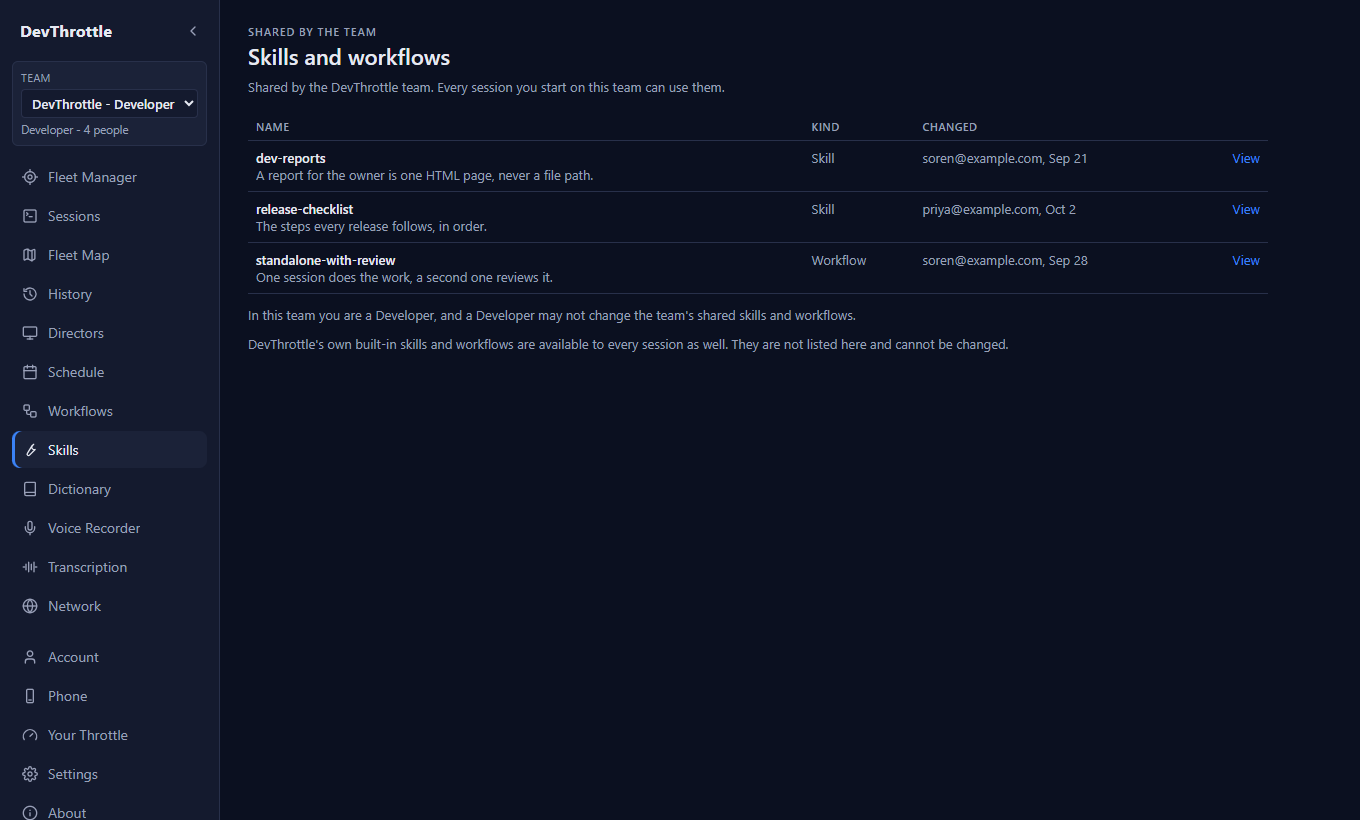
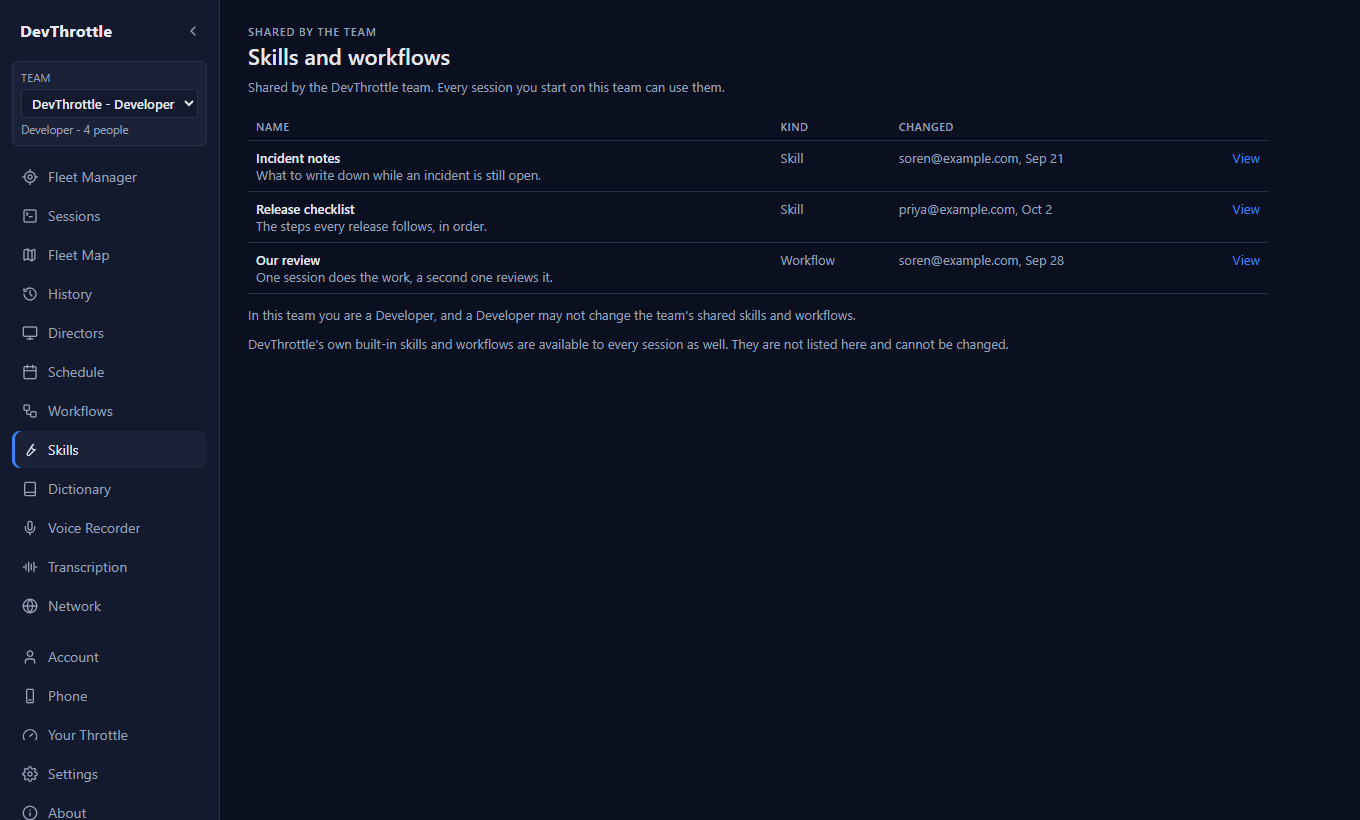
Teams: S5 proof - stand-in rows the real library can produce, screens recaptured, nine revert checks, and the answered review of #3536 (devthrottle_internal#2304)

diff --git a/docs/proof/teams-2304/review-2304-page.md b/docs/proof/teams-2304/review-2304-page.md
@@ -1,0 +1,196 @@
+# Review: the S5 page, Skills and workflows (thefrederiksen/devthrottle pull request #3536)
+
+Written by a separate review session, 4 October 2026. Head reviewed: ab2fc024d, against origin/main at 0f8ae2706
+(merge base 24cf04bfa). The Gateway contract was read from origin/teams/2304-shared-skills at c3b6de244
+(pull request #3532, not merged).
+
+## Scope
+
+**Read, in full:**
+
+- The whole diff `git diff origin/main...HEAD`: `apps/cockpit/src/teams/TeamLibraryView.tsx`, its test file,
+  `packages/client-core/src/teams/teamLibraryClient.ts`, its test file, the `routes.tsx` change, the three capture
+  scripts under `docs/proof/teams-2304/s5-capture/`, and `docs/proof/teams-2304/s5-page.md`.
+- On main: `packages/client-core/src/teams/CurrentTeam.tsx`, the failure parsing in
+  `packages/client-core/src/api/client.ts`, `apps/cockpit/src/components/ConfirmDialog.tsx`, `suggestSkillId`.
+- On the #3532 branch: `TeamLibraryEndpoints.cs`, `SkillEndpoints.cs`, `WorkflowEndpoints.cs`,
+  `ServerStampedAuthor.cs`, `TeamEndpointRules.cs`, `TeamEndpointGate.cs`, the request and answer contracts in
+  `SkillDtos.cs` and `WorkflowDtos.cs`, and the parts of `SkillStore.cs`, `WorkflowStore.cs`, `SkillValidation.cs`
+  and `WorkflowValidation.cs` that the page's routes reach (create draft, update draft, publish, clone, archive,
+  version detail, body and instructions reads, the publish-time rules), plus the refusal wording in `TeamAccess.cs`
+  and `TeamPermissions.cs`.
+- Issue #2304, the Developer's brief, and screen S5 of the mockup.
+
+**Ran, in this worktree, with no file edited:**
+
+- `npm ci` at the root.
+- `npx vitest run` in `packages/client-core`: 142 test files passed, 1,672 tests passed.
+- `npx vitest run` in `apps/cockpit`: 69 test files passed, 613 tests passed.
+- `git status` afterwards: clean.
+
+**Could not reach:**
+
+- No .NET suite was run (mandate). Everything said below about what the Gateway answers is from READING the
+  #3532 branch, not from a running Gateway. F1 and F2 in particular are read, not reproduced.
+- The page was not driven against a real Gateway: #3532 is not merged and no such Gateway exists to drive.
+- The four screenshots were not re-captured. I did not open the image files; I judged the stand-in from its source.
+- I did not perform the three revert checks the proof file reports; I did not edit any file. Where I say a test
+  cannot fail, it is from reading the test.
+- Role table in #2098 was taken from the #3532 branch's `TeamPermissions.cs` rows (use: Owner, Manager, Developer;
+  change: Owner, Manager), which agree with issue #2304's text. I did not open #2098 itself.
+
+**What I checked and found sound (no finding):**
+
+- Rule 7. The Add buttons follow `library.canChange`, each row's Change and Remove follow that row's `canChange`,
+  the Developer's sentence is `changeRefusal` verbatim, and the Collaborator's note is the Gateway's own 403
+  sentence. Nothing in the page or the client compares a role. `team.role` is never read.
+- The author. No request body carries `authoredBy` and no query string carries `by=`. The page has no console
+  call. The only email on the page is `changedBy`, which the Gateway chose to send.
+- The current team. `TeamOrOwn` reads `resolving` first, and shows loading or the switcher's error, never the own
+  page. With no remembered team, Teams dark, or no team picked, `resolving` is false and `current` is null, so the
+  own page renders exactly as before and no team route is called.
+- The team id. Every request the page makes goes through `teamPath(teamId, ...)` with the id of the one team on
+  screen, encoded; `key={current.id}` remounts the page on a switch so no state carries across teams.
+- Shapes. The library answer, the 403 body (`error` plus `code: "team_action_refused"`), the skill create body,
+  the skill and workflow draft bodies (the extra `contentHash` on a skill file is ignored by the Gateway's reader;
+  `encoding` and `executable` survive the round trip), the clone query, the delete, the two markdown reads and the
+  workflow list's `isBuiltIn` all match what #3532's routes read and write.
+
+## Verdict
+
+**Changes needed before merge: one should-fix that strands an item (F1), two smaller should-fixes (F2, F3), and
+three notes.** No blocker on the points the mandate asked to be looked at hardest: rule 7, the author, the current
+team and the team id in every route are all correct.
+
+## Findings
+
+### F1 - should-fix - a Change whose publish fails leaves a draft behind, and the page can then never change that item again
+
+**Location:** `packages/client-core/src/teams/teamLibraryClient.ts` lines 155 and 178-179 (`changeTeamItem`);
+`apps/cockpit/src/teams/TeamLibraryView.tsx` line 247 (the Save button's disabled rule) and line 226. Same shape
+in `addTeamSkill`, lines 113-114.
+
+**The harm.** A change is two writes: `PUT .../draft`, then `POST .../publish`. If the first succeeds and the
+second fails, the Gateway now holds a DRAFT for that item. The page's next attempt reads the PUBLISHED version
+(`/versions/{item.version}`) and sends that version's hash as `If-Match`. But the Gateway's `UpdateDraft` compares
+`If-Match` against the draft when one exists (`SkillStore.cs` on the #3532 branch, `var baseline = draft ?? ...
+Published`; `WorkflowStore.cs` the same). The hashes differ, so the Gateway answers 409, "The skill changed since
+you read it (content hash mismatch). Pull the current content and reapply your edit." Reloading does not help: the
+library still reports the published version, so every later Change of that item from this page gets the same 409,
+for every Owner and Manager, permanently. Nothing on the page can publish or discard the draft, and today no other
+surface can reach a team's library at all (the command line talks to the personal routes; the team-bound key waits
+on #2311). The only move left is Remove, after which the same id cannot be added again (the archived id still
+exists, so create answers 409 "already exists").
+
+**The page makes this easy to hit, without any network fault.** In the Change dialog the Save button is disabled
+only while the text is still loading (`text === null`), not when it is empty. Clear the box and press "Save for
+the team": the draft write is accepted (the draft rules allow an empty body), and the publish is refused with "A
+skill cannot publish without a body" (`SkillValidation.ValidateForPublish`; for a workflow, "cannot publish without
+instructions"). The dialog stays open showing that sentence; the person types the words back and saves again, and
+gets the 409 above. The item is now stuck as described.
+
+**Add skill has the same two-step shape** (create draft, then publish). The dialog does require a non-blank body,
+so it takes a real failure between the two calls; when that happens the skill exists as an unpublished draft that
+the library does not list, and adding it again answers "A skill with id '...' already exists" for a name the page
+shows nowhere.
+
+**Why it must change.** A shared item that an Owner can no longer change, with a message telling them to "pull
+the current content" on a page that has no way to do so, is a dead end the person cannot get out of. At minimum:
+do not offer Save with empty words; and make the second attempt work when the leftover draft is the caller's own
+failed change (for example, write against the hash the draft write itself returned and retry only the publish, or
+read the latest version rather than the published one). No test covers a publish that fails after a draft write.
+
+**This is from reading the store on the #3532 branch; I did not run it.**
+
+Developer answer: Fixed in the page; #3532 does not change. (1) Save is never offered with empty words (`TeamLibraryView.tsx`, the Change dialog's disabled rule; test `TeamLibraryView_Change_EmptyWords_AreNeverOffered`). (2) A leftover draft is recovered: `changeTeamItem` now reads the item's version history first and, when a draft is there, writes against THAT draft's hash, replacing it; with no draft it still writes against the hash of the version the person read, so a change someone else published meanwhile is still refused (`ChangeTeamItem_ADraftLeftByAFailedPublish_IsReplaced_WrittenAgainstItsOwnHash`, and the existing published-hash test). Every write this page makes publishes straight after, so a draft that is still there is a change that did not finish. It works from a reload too, not only within the dialog. (3) Add has the same care: the dialog holds how far the add got (`AddProgress`), so a second attempt after a failed publish rewrites the unpublished skill the first attempt made and publishes it, never creating again; the id is then fixed in the dialog (`AddTeamSkill_ASecondAttemptAfterAFailedPublish_RewritesTheDraftAndPublishes_NeverCreatesAgain`, `TeamLibraryView_AddSkill_ASecondAttemptAfterThePublishFailed_FinishesTheSameSkill`). Revert checks G and L each turned their tests red. Not covered: a skill whose add failed AND whose dialog was then closed stays an unlisted draft until the Gateway can list or discard a team's drafts; that is a Gateway change, so I did not make it, and I name it here rather than claim it.
+
+### F2 - should-fix - "The team's name for it" sets only the id; the row shows the built-in's name, and nothing on the page can change it
+
+**Location:** `apps/cockpit/src/teams/TeamLibraryView.tsx` lines 349-353 (the field and its label), line 326;
+`packages/client-core/src/teams/teamLibraryClient.ts` lines 162 and 198-201.
+
+**The harm.** The Add workflow dialog asks for "The team's name for it" and sends what is typed only as `newId`.
+The Gateway's clone copies the source's name (`WorkflowStore.Clone` on the #3532 branch: `Name =
+sourceVersion.Name`). So a Manager who starts from "Standalone with review" and types "Our review" gets a row whose
+Name column reads "Standalone with review", not "Our review". The id they typed is shown nowhere in the table
+(the row renders `item.name` and `item.summary` only). Two copies of the same built-in are two rows with the same
+name and the same one line, told apart only by the date, and the Remove question reads "Remove 'Standalone with
+review' from the team?" for both. Change cannot repair it: `changeTeamItem` sends `name: v.name` back unchanged
+and the dialog has no name field.
+
+**Why it must change.** The field's label promises something the page does not do, and the result is rows a
+person cannot tell apart when the action on offer is Remove. Either send the typed name (clone, then a draft with
+the new name, then publish - which then needs F1's care), or label the field as the id and show the id in the row.
+The test `TeamLibraryView_AddWorkflow_StartsFromABuiltIn` passes because it checks only the call's arguments; no
+test looks at what the new row is called.
+
+Developer answer: Fixed: the name is now the name. The Add workflow dialog has a Name field with the id shown under it (as Add skill does). `addTeamWorkflowFrom` copies under the id, then, because the clone keeps the built-in's name, writes the typed name as a draft against the copy's hash and publishes; a second attempt after a failed rename finishes the same copy and never copies again (it uses F1's leftover-draft care). Tests: `AddTeamWorkflowFrom_CopiesUnderTheNewId_ThenGivesItTheTeamsName_WithNoAuthor`, `AddTeamWorkflowFrom_ASecondAttemptAfterAFailedRename_FinishesTheSameCopy_NeverCopiesAgain`, and the page test now checks the name sent. Revert check K turned two tests red.
+
+### F3 - should-fix - `/workflows/:id` still shows and changes the person's OWN library while a team is on screen
+
+**Location:** `apps/cockpit/src/routes.tsx` line 163 (`{ path: "/workflows/:id", element: <WorkflowDetail /> }`,
+unchanged by this pull request, beside the two routes it did wrap).
+
+**The harm.** The mandate asks whether anything still calls the personal routes while a team is chosen. One page
+does. `/workflows` and `/skills` are wrapped in `TeamOrOwn`; the single-workflow page is not. It calls the personal
+`/gateway/workflows` routes and offers Clone and the on/off switch (`WorkflowDetail.tsx`, `cloneWorkflow`, and the
+"turn it back on anytime" switch). A person who is on `/workflows/mission` in their own account and then picks a
+team in the rail stays on that page: the rail now names the team, and Clone or the switch acts on their PERSONAL
+library. A reload, a bookmark or the browser's back button lands there too. The team page itself has no link to
+it, so it is not reached by clicking through S5 - which is why I rate it should-fix and not blocker.
+
+**Why it must change.** "Two pages can never disagree about which team is on screen" is the stated purpose of the
+shared switcher, and here a write goes to a different library than the one the screen names. Wrapping this route
+the same way (or sending a person with a team on screen back to `/workflows`) closes it.
+
+Developer answer: Fixed: `/workflows/:id` is wrapped too. `TeamOrOwn` takes an optional `team` element; for one workflow's detail it is a redirect to `/workflows`, so with a team on screen the person lands on the team's page and nothing acts on the own library. With the own account it is the detail page as before. New `teamRoutes.test.tsx` drives the REAL route table (F6). Revert check J turned it red.
+
+### F4 - note - two of the stand-in Gateway's three rows could never come from the real Gateway
+
+**Location:** `docs/proof/teams-2304/s5-capture/stub-gateway.mjs` lines 8-10; the claim in
+`docs/proof/teams-2304/s5-page.md` ("answers ... in exactly the shapes #3532's routes answer").
+
+**The harm.** The mandate asks whether the stand-in matches #3532's real responses. The SHAPES do: the field names
+and types of `/teams/{id}/library`, the 403 body with `code: "team_action_refused"`, and both refusal sentences
+are word for word what `TeamLibraryEndpoints.Library`, `TeamEndpointGate.RunAsync` and `TeamAccess.RoleRefusal`
+produce, and `changedBy` is an email as `TeamEndpoints.MemberName` returns. The CONTENT does not: `dev-reports` is
+a built-in skill id and `standalone-with-review` is a built-in workflow id. The real `Library` leaves built-ins
+out (`Where(s => !s.IsBuiltIn)`), and a team can never own either id (create and clone both refuse a built-in id).
+The rows follow the mockup, but the screenshots show a list the product cannot produce, and the built-in note
+under them says built-ins "are not listed here". Also: the stand-in answers only the two reads, so the screenshots
+prove the read-only render per role and nothing about Add, Change or Remove - the proof file should say so in
+those words. Use team-owned ids in the stand-in.
+
+Developer answer: Fixed: the stand-in's rows are team-owned ids (Incident notes, Release checklist, Our review) and its header says why. The four screenshots were recaptured. `s5-page.md` now says in those words that the screens prove the read-only render per role and nothing about Add, Change or Remove, which the component and client tests prove instead, and "exactly the shapes" became "the shapes".
+
+### F5 - note - the tests never see the Gateway's refusal code travel from the response to the page
+
+**Location:** `packages/client-core/src/teams/teamLibraryClient.test.ts` line 59;
+`apps/cockpit/src/teams/TeamLibraryView.test.tsx` line 86.
+
+**The harm.** The page shows the calm note (no red banner, no "Try again") only when `err.code ===
+"team_action_refused"`. The client test for the Collaborator sends a real 403 body with that code but asserts only
+`status` and `serverReason`; the page test hand-builds a `GatewayError` that already carries the code. So no test
+in this pull request would go red if the code stopped reaching the error - the Collaborator would then get a red
+error with a retry button, and both suites would stay green. Add `code: "team_action_refused"` to the client
+test's `toMatchObject`. In the same file, `ChangeTeamItem_AWorkflow_KeepsItsSteps` uses `toMatchObject` on the
+draft body, so unlike the skill test (`toEqual`) it would not notice an author being added to a workflow change.
+
+Developer answer: Fixed: the client's Collaborator test now asserts `code: "team_action_refused"` as well. The workflow change test now uses `toEqual` on the whole draft body, so an added author would fail it.
+
+### F6 - note - no test watches the route wiring
+
+**Location:** `apps/cockpit/src/routes.tsx` lines 157 and 160.
+
+**The harm.** `TeamOrOwn` is tested by rendering it directly. Nothing renders the `/skills` or `/workflows` route.
+Putting `<SkillsView />` and `<WorkflowsView />` back on those two lines - which removes the whole feature - leaves
+all 613 Cockpit tests green (the only files that mention `TeamOrOwn` are the page, its own test, and `routes.tsx`).
+The screenshots do cover `/skills` once, by hand; `/workflows` is covered by nothing. One test over
+`COCKPIT_ROUTES` that both paths resolve to `TeamOrOwn` would hold it.
+
+Developer answer: Fixed: `apps/cockpit/src/teams/teamRoutes.test.tsx` renders COCKPIT_ROUTES itself: `/skills` and `/workflows` open the team's page with a team on screen; `/skills`, `/workflows` and `/workflows/mission` open the own pages without one; `/workflows/mission` with a team goes to `/workflows`. Revert check I (own page back on `/skills`) turned it red.
+
+
+## Developer's closing note
+
+Answered on branch `teams/2304-skills-page`; head given to the Tech Lead with the hand-back. Checks at that head: client-core 1,675 of 1,675, Cockpit 621 of 621, typecheck and eslint exit 0; six new revert checks (G to L), each red then restored. No Gateway change; #3532 is untouched.

diff --git a/docs/proof/teams-2304/s5-page.md b/docs/proof/teams-2304/s5-page.md
@@ -18,11 +18,16 @@ workflow, and Change and Remove on each row the Gateway marks changeable.
 
 - **Add skill** - name, one line, the words the agent reads; created and published for the team in one step.
 - **Add workflow** - a new team workflow starts as a copy of one of DevThrottle's built-in workflows (the store's
-  existing clone), under the team's own id; its words are then changed with Change. The Cockpit has no workflow step
-  editor for anyone today; workflows are otherwise written with the command line.
+  existing clone), under the team's own id, and is then given the name the person typed (the clone keeps the
+  built-in's name, so the page renames it and publishes). Its words are then changed with Change. The Cockpit has no
+  workflow step editor for anyone today; workflows are otherwise written with the command line.
 - **Change** - the one line and the words. Every other part of the published version (triggers, files, steps) is
   kept exactly, the write is made against the published version's hash so a change someone else published in the
-  meantime is refused rather than overwritten, and it is published.
+  meantime is refused rather than overwritten, and it is published. Empty words are never offered.
+- **A write whose publish failed is recovered, never stranded.** Every write here is two calls, write then publish.
+  If the publish fails, a second attempt finishes the same item: Change writes over the leftover draft against that
+  draft's own hash (the Gateway compares against a draft when one exists), and Add rewrites the skill, or renames
+  the copy, it already made instead of creating or copying again under an id that is now taken.
 - **Remove** - asks first, then archives it; the team's sessions stop getting it.
 
 **The page renders what the Gateway decided (rule 7).** Whether the Add buttons show, which rows offer Change and
@@ -41,8 +46,11 @@ second switcher, no second list of teams.
 
 The real Cockpit (Vite dev server, this branch) in a real Chromium, signed in, with the team picked in the real
 switcher. Because #3532 is not on main, the Gateway behind it is a **stand-in** (`s5-capture/stub-gateway.mjs`) that
-answers `/teams` and `/teams/{id}/library` in exactly the shapes #3532's routes answer (its hosted tests and its proof
-README); the role follows the signed-in account. Re-run with `s5-capture/run.ps1`.
+answers `/teams` and `/teams/{id}/library` in the shapes #3532's routes answer (its hosted tests and its proof
+README); the role follows the signed-in account. Its rows are team-owned ids, as the real library lists only those.
+It answers only those two reads, so **these screens prove the read-only render per role and nothing about Add,
+Change or Remove** - those are proven by the component and client tests below, not by a screen. Re-run with
+`s5-capture/run.ps1` (needs playwright-core beside it).
 
 | Role | Screenshot | What it shows |
 |---|---|---|
@@ -61,27 +69,40 @@ README); the role follows the signed-in account. Re-run with `s5-capture/run.ps1
 | A real failure is an error with Try again, not a note | `TeamLibraryView_AGatewayFailure_...` | pass |
 | The Gateway's verdict, not the role label, decides what is offered | `TeamLibraryView_TheVerdictNotTheRole_...` | pass |
 | A row the Gateway marks unchangeable offers only View | `TeamLibraryView_ARowTheGatewaySaysCannotChange_...` | pass |
-| Empty list, add skill, add refused (stays open with the sentence), change, remove asks first, add workflow from a built-in | 6 tests | pass |
+| Empty words are never offered for Save | `TeamLibraryView_Change_EmptyWords_AreNeverOffered` | pass |
+| A second Add after a failed publish finishes the same skill, under the same id | `TeamLibraryView_AddSkill_ASecondAttemptAfterThePublishFailed_FinishesTheSameSkill` | pass |
+| Add workflow sends the typed name, not only an id | `TeamLibraryView_AddWorkflow_StartsFromABuiltIn` | pass |
+| Empty list, add skill, add refused (stays open with the sentence), change, remove asks first | 5 tests | pass |
 | Own account, no teams offered, a team on screen, unconfirmed team (loading), read failed while resolving (error) | `TeamOrOwn_...` (5) | pass |
-| The client: verbatim answer, the Collaborator's 403 sentence, app shell and missing permission are failures, the right route for each kind, add creates then publishes and sends NO author, a refused add does not publish, change keeps everything but the words and writes against the hash, workflow change keeps its steps, remove, built-ins only as starting points, clone with no author, ids encoded | `teamLibraryClient.test.ts` (13) | pass |
+| The REAL route table: `/skills` and `/workflows` open the team's page with a team on screen; the own pages, and one workflow's detail, without one; one workflow's detail with a team on screen goes to the team's page | `teamRoutes.test.tsx` (6) | pass |
+| The client: verbatim answer; the Collaborator's 403 sentence AND its refusal code; app shell and missing permission are failures; the right route for each kind; add creates then publishes and sends NO author; a refused add does not publish; a second add after a failed publish rewrites the draft and never creates again; change keeps everything but the words and writes against the read hash; a leftover draft is written over against its own hash; a workflow change sends exactly its body; remove; built-ins only as starting points; add workflow copies then renames, with no author; a second attempt after a failed rename never copies again; ids encoded | `teamLibraryClient.test.ts` (16) | pass |
 
-## Every test can fail - three revert checks
+## Every test can fail - nine revert checks
 
-Committed first; each check broke one rule, ran its tests, and restored the source.
+Committed first; each check broke one rule, ran both team suites in full (not filtered), and restored the source.
 
 | Broken | Result |
 |---|---|
 | D. The Add buttons show regardless of the Gateway's verdict | `TeamLibraryView_Developer_SeesTheListReadOnly_WithTheGatewaysSentence` FAILED (1 of 17) |
 | E. A remembered team not yet confirmed shows the own page | both `TeamOrOwn_...Resolving...` tests FAILED (2 of 17) |
 | F. The client names an author when adding a skill | `AddTeamSkill_CreatesThenPublishes_AndSendsNoAuthor` FAILED (1 of 13) |
+| G. A change ignores a leftover draft and writes against the published hash | `ChangeTeamItem_ADraftLeftByAFailedPublish_...` and `AddTeamWorkflowFrom_ASecondAttemptAfterAFailedRename_...` FAILED (2 of 40) |
+| H. Save is offered with empty words | `TeamLibraryView_Change_EmptyWords_AreNeverOffered` FAILED (1 of 32) |
+| I. `/skills` goes back to the own page | `Route_/skills_WithATeamOnScreen_OpensTheTeamsPage` FAILED (1 of 32) |
+| J. One workflow's detail is the own page whatever is on screen | `Route_OneWorkflowsDetail_WithATeamOnScreen_...` FAILED (1 of 32) |
+| K. The typed workflow name is dropped | `AddTeamWorkflowFrom_CopiesUnderTheNewId_ThenGivesItTheTeamsName_...` and `..._ASecondAttemptAfterAFailedRename_...` FAILED (2 of 40) |
+| L. A second Add creates the skill again | `AddTeamSkill_ASecondAttemptAfterAFailedPublish_...` FAILED (1 of 40) |
 
-(The revert checks ran before the Collaborator note change; the suite then grew to 18.)
+(D, E and F ran on the first head, before the review fixes; G to L ran at f813886d4. "of 40" is client-core's team
+tests, "of 32" the Cockpit's.)
 
 ## Checks run
 
-- `npm test --workspace @devthrottle/client-core`: Test Files 142 passed, Tests 1,672 passed.
-- `npm test --workspace @devthrottle/cockpit`: Test Files 69 passed, Tests 613 passed (after the Collaborator note change).
-- `npm run typecheck` for client-core and cockpit: clean. `eslint` on every changed file: clean.
+At the review-fix head:
+
+- `npx vitest run` in `packages/client-core`: Test Files 142 passed, Tests 1,675 passed.
+- `npx vitest run` in `apps/cockpit`: Test Files 70 passed, Tests 621 passed.
+- `npm run typecheck` for client-core and cockpit: exit 0. `eslint` on the changed folders and `routes.tsx`: exit 0.
 - No C# changed, so no .NET suite applies to this part.
 
 ## Not in this part
